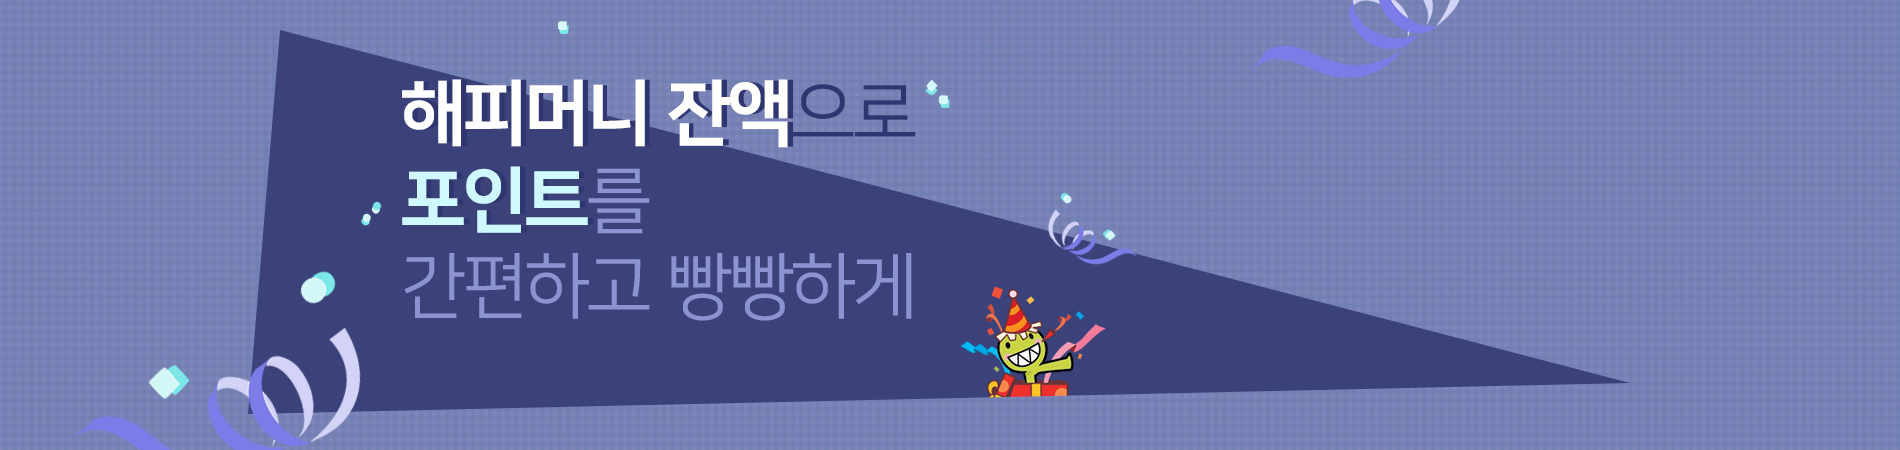
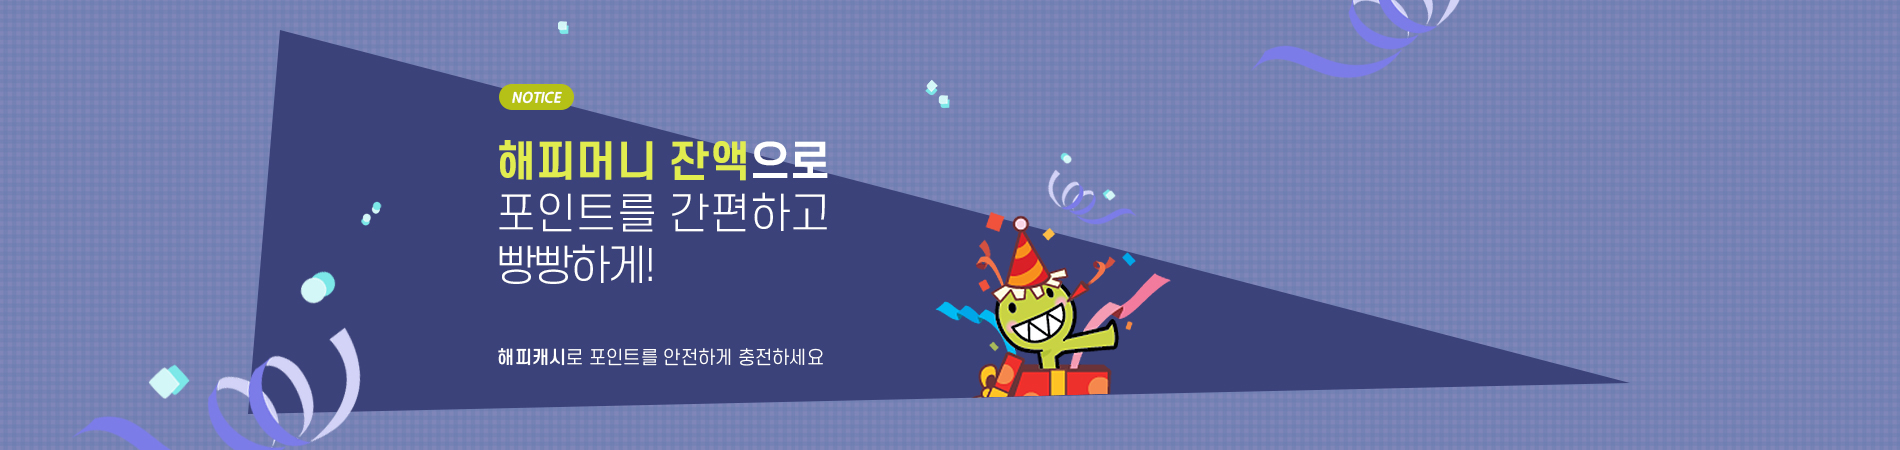
[포인트몰]메인 1차 완성

Changed region(s): [[0.1863, 0.1556, 0.6211, 0.9022], [0.2484, 0.7778, 0.4347, 0.8089]]

diff --git a/views/v2_point/main/index.html b/views/v2_point/main/index.html
@@ -101,14 +101,14 @@
                 var otc_sells = success.data.otc_sells;
                 var notices = success.data.notices;
                 
-                console.log(success);
+                // console.log(success);
 
-                setPrimeService(prime_services);
-                setGameSellList(game_sells);
-                setGameBuyList(game_buys);
+                // setPrimeService(prime_services);
+                // setGameSellList(game_sells);
+                // setGameBuyList(game_buys);
                 setEtcSellList(etc_sells);
-                setOtcBuyList(otc_buys);
-                setOtcSellList(otc_sells);
+                // setOtcBuyList(otc_buys);
+                // setOtcSellList(otc_sells);
                 setNoticeList(notices);
                 setCommunityMovie(movies);
                 // setCommunityBoard(boards);
@@ -293,9 +293,9 @@
                         money = price + '<span>'+cryptoCurrencyCode+'</span>';
                     }
                     
-                    if(i % 4 === 0) result += '<li class="row">'
+                    if(i % 4 === 0) result += '<li class="li_asset cf">'
                     
-                    result += '<div class="col-lg-3 col-md-6 col-xs-12">'
+                    result += '<div class="asset_once">'
                             +     '<div class="img_list_box">'
                             +        '<div class="photo_frame">'
                             +        '<em class="ico_trade state_possible step'+status.number+'">'+status.text+'</em>'
@@ -312,11 +312,12 @@
                             +        '</dl>'
                             +    '</div>'
                             + '</div>'
-                    if(i===data.length -1) {
-                        result += '<div class="col-md-3 col-sm-6 col-xs-12"><div class="img_list_box"><div class="view_more">'
-                                + '<a href="/etc-sells?category=etc&trade_type=sell"><em>+</em><span>VIEW<br>MORE</span></a>'
-                                + '</div></div></div>'
-                    }
+                    // VIEW MORE 버튼 빼버림
+                    // if(i===data.length -1) {
+                    //     result += '<div class="asset_once"><div class="img_list_box"><div class="view_more">'
+                    //             + '<a href="/etc-sells?category=etc&trade_type=sell"><em>+</em><span>VIEW<br>MORE</span></a>'
+                    //             + '</div></div></div>'
+                    // }
                     if(i % 4 === 3) result += '</li>'
                 }
             }
@@ -367,20 +368,20 @@
                     <div class="visual_img">
                         <a href="/howto/trade/vtr">
                             <div class="pc_img">
-                                <img src="/static/img/pointmall/point_visual03.jpg" alt="그랜드 오픈">
+                                <img src="/static/img/pointmall/point_visual04.jpg" alt="그랜드 오픈">
                             </div>
                             <div class="mob_img">
-                                <img src="/static/img/pointmall/m_point_visual03.jpg" alt="그랜드 오픈">
+                                <img src="/static/img/pointmall/m_point_visual04.jpg" alt="그랜드 오픈">
                             </div>
                         </a> 
                     </div>
                     <div class="visual_img">
                         <a href="/howto/happymoney_to_point">
                             <div class="pc_img">
-                                <img src="/static/img/pointmall/point_visual02.jpg" alt="해피포인트">
+                                <img src="/static/img/pointmall/point_visual02.jpg" alt="해피머니">
                             </div>
                             <div class="mob_img">
-                                <img src="/static/img/pointmall/m_point_visual02.jpg" alt="해피포인트몰">
+                                <img src="/static/img/pointmall/m_point_visual02.jpg" alt="해피머니">
                             </div>
                         </a> 
                     </div>                                                                     
@@ -392,7 +393,7 @@
                 </div>
             </section>
         </div>
-        <div class="container renewer_container">
+        <div class="renewer_container">
             <!-- <div class="w100p_banner row">
                 <div class="col-lg-12">
                     <a class="mob_hide" href="https://open.kakao.com/o/gNPGb7sb" target="_blank">
@@ -403,108 +404,77 @@
                     </a>
                 </div>
             </div> -->
-            <section>
-                <h1 class="tit_main_sec">자산거래</h1>
-                <div class="photo_list">
-                    <ul id="assetsTrade">
-                    </ul>
-                </div>
-            </section>
 
-            <!-- 게임 아이템 판매/구매 -->
-            <section class="secGame item_trade_sec col-lg-12">
-                <h1 class="tit_main_sec">게임아이템</h1>
-                <h2 class="item_sell_tit on">
-                    <button class="btnGame btn_show_list on">판매</button>
-                    <a class="detail_link" href="/sells?category=game&trade_type=sell"><img src="/static/img/main/ico_view.png" alt=""></a>
-                </h2>
-                <div class="item_sell item_table_wrap trade_list toggleTable">              
-                    <table class="main_list_table">
-                        <colgroup class="colgroup_main_gameitem">
-                            <col class="col4_1">
-                            <col class="col4_2">
-                            <col class="col4_3">
-                            <col class="col4_4">
-                        </colgroup>
-                        <thead>
-                            <tr class="active">
-                                <th>종류</th>
-                                <th>게임명>서버명</th>
-                                <th>제 목</th>
-                                <th>거래가격</th>
-                            </tr>
-                        </thead>
-                        <tbody id="sell_list">                               
-                        </tbody>
-                    </table>
-                </div>
-                <h2 class="item_buy_tit">
-                    <button class="btnGame btn_show_list">구매</button>
-                    <a class="detail_link" href="/buys?category=game&trade_type=buy"><img src="/static/img/main/ico_view.png" alt=""></a>
-                </h2>
-                <div class="item_buy item_table_wrap trade_list toggleTable">
-                    <table class="main_list_table">
-                        <colgroup class="colgroup_main_gameitem">
-                            <col class="col4_1">
-                            <col class="col4_2">
-                            <col class="col4_3">
-                            <col class="col4_4">
-                        </colgroup>                            
-                        <thead>
-                            <tr>
-                                <th>종류</th>
-                                <th>게임명>서버명</th>
-                                <th>제 목</th>
-                                <th>거래가격</th>
-                            </tr>
-                        </thead>
-                        <tbody id="buy_list">
-                        </tbody>
-                    </table>                           
-                </div>             
-            </section>
-            <!--// 게임 아이템 판매/구매 -->
-  
-            <!-- <section class="w100p_banner row">
-                <div class="col-lg-12">
-                    <a class="mob_hide" href="http://bitweb.co.kr/" target="_blank">
-                        <img src="/static/img/main/main_content_banner03.jpg" alt="Bit Web">
-                    </a>
-                    <a class="mob_show" href="http://bitweb.co.kr/" target="_blank">
-                        <img src="/static/img/mob/mob_main_banner03.jpg" alt="Bit Web">
-                    </a>
-                </div>
-            </section> -->
-
-            <div class="row">
-                <section class="media_sec col-lg-12">
-                    <h1 class="tit_main_sec">커뮤니티</h1>
-                    <div class="bd_area">
-                        <div class="media_img_wrap cf">
-                        </div>
+            <section class="section_asset">
+                <div class="main_inner_wrap">
+                    <h1 class=""><img src="/static/img/main/tit_asset.png" alt="ASSET"></h1>
+                    <div class="photo_list">
+                        <ul id="assetsTrade">
+                        </ul>
                     </div>
-                </section>
-            </div>
-           
-            <div class="main_3n1n_wrap">
-                <section class="notice_sec">
-                    <h1 class="">공지사항</h1>
-                    <ul id="notice_list" class="noti_list">
+                </div>
+            </section>
+            <section class="section_hashtag">
+                <div class="main_inner_wrap hashtag_category_wrap">
+                    <ul class="hashtag_category cf">
+                        <li class="hash_all"><a href="/etc-sells?category=etc&trade_type=sell"><span>전체</span></a></li>
+                        <li class="c1"><a href="/etc-sells?category=etc&trade_type=sell&category1=여성의류"><span>여성의류</span></a></li>
+                        <li class="c2"><a href="/etc-sells?category=etc&trade_type=sell&category1=남성의류"><span>남성의류</span></a></li>
+                        <li class="c3"><a href="/etc-sells?category=etc&trade_type=sell&category1=패션잡화"><span>패션잡화</span></a></li>
+                        <li class="c4"><a href="/etc-sells?category=etc&trade_type=sell&category1=뷰티/미용"><span>뷰티/미용</span></a></li>
+                        <li class="c5"><a href="/etc-sells?category=etc&trade_type=sell&category1=유아동/출산"><span>유아동/출산</span></a></li>
+                        <li class="c1"><a href="/etc-sells?category=etc&trade_type=sell&category1=스포츠/레저"><span>스포츠/레저</span></a></li>
+                        <li class="c2"><a href="/etc-sells?category=etc&trade_type=sell&category1=디지털/가전"><span>디지털/가전</span></a></li>
+                        <li class="c3"><a href="/etc-sells?category=etc&trade_type=sell&category1=생활/가구"><span>생활/가구</span></a></li>
+                        <li class="c4"><a href="/etc-sells?category=etc&trade_type=sell&category1=도서/티켓"><span>도서/티켓</span></a></li>
+                        <li class="c5"><a href="/etc-sells?category=etc&trade_type=sell&category1=취미/애완"><span>취미/애완</span></a></li>
+                        <li class="c1"><a href="/etc-sells?category=etc&trade_type=sell&category1=문구/키덜트"><span>문구/키덜트</span></a></li>
+                        <li class="c2"><a href="/etc-sells?category=etc&trade_type=sell&category1=차량/용품"><span>차량/용품</span></a></li>
+                        <li class="c3"><a href="/etc-sells?category=etc&trade_type=sell&category1=기타"><span>기타</span></a></li>
+                        <li class="li_otc"><a href="/otc-sells"><span>OTC</span></a></li>
+                        <li class="li_game"><a href="/sells"><span>게임아이템</span></a></li>
                     </ul>
-                </section>
-                <section class="guide_sec">
-                    <a href="/howto/trade/vtr">
-                        <h1>포인트몰<br>이용 가이드</h1>
-                        <div class="ico_round ico_guide01"></div>
-                    </a>
-                </section>
-                <section class="guide_sec">
-                    <a href="/howto/trade/buynow">
-                        <h1>포인트몰<br>바로구매 가이드</h1>
-                        <div class="ico_round ico_guide02"></div>
-                    </a>
-                </section>
-            </div>        
+                </div>
+            </section>
+
+            <!-- 커뮤니티 베스트 -->
+            <section class="section_community">
+                <div class="main_inner_wrap">
+                    <h1 class=""><img src="/static/img/en/title_community_en.png" alt="Community"></h1>
+                    <div class="media_img_wrap cf">
+                    </div>
+                </div>
+            </section>
+
+            <div class="w100p_banner">
+                <a class="mob_hide" href="http://bitweb.co.kr" target="_blank">
+                    <img src="/static/img/en/en_main_content_banner03.jpg" alt="bitweb PC">
+                </a>
+                <a class="mob_show" href="http://bitweb.co.kr" target="_blank">
+                    <img src="/static/img/en/en_mob_main_banner03.jpg" alt="bitweb mobile">
+                </a>
+            </div>
+                
+            <div class="noti_hot_section_wrap">
+                <div class="main_inner_wrap dfb">
+                    <section class="section_notice">
+                        <h1>NOTICE</h1>
+                        <div class="line_box">
+                            <ul id="notice_list" class="noti_list">
+                            </ul>
+                        </div>
+                    </section>
+                    <section class="section_hotmenu">
+                        <h1>HOT MENU</h1>
+                        <a href="/supports/event">
+                            <img src="/static/img/main/img_btn_event.jpg" alt="event">
+                        </a>
+                        <a href="/howto/trade/vtr">
+                            <img src="/static/img/main/img_btn_trading.jpg" alt="safty trade">
+                        </a>
+                    </section>
+                </div>
+            </div>            
         </div>
         <!--// bootstrap container -->
     </div>

diff --git a/public/static/css/common.css b/public/static/css/common.css
@@ -109,7 +109,8 @@ select{-webkit-appearance: none; -webkit-border-radius: 0px; -moz-appearance: no
 
 .header .sch_sec{position: relative; height: 105px;}
 .header .sch_sec .h_logo{float: left; margin-top: 30px; width: 210px; text-align: center;}
-.header .sch_sec .h_logo img{width: 142px;}
+.header .sch_sec .point_logo{text-align: left;}
+.header .sch_sec .h_logo img{height: 40px;}
 .header .sch_sec .search_bar{float: left; margin-top: 26px; width: calc(100% - 360px); position: relative; display: none; }
 .header .sch_sec .search_bar .ipt_search_bar{float: left; padding-left: 10px; width: calc(100% - 50px); height: 50px; border: 3px solid #000039;}
 .header .sch_sec .search_bar .btn_search{float: left; width: 50px; height: 50px; text-indent: -99999px; background: #000039 url("/static/img/main/ico_search.png") 50% 50% no-repeat; background-size: 16.5px 15px; border:none;}
@@ -159,12 +160,12 @@ select{-webkit-appearance: none; -webkit-border-radius: 0px; -moz-appearance: no
 .header .nav > .r_menu > li .floating_info_box .mdl_area{padding: 10px 0;}
 .header .nav > .r_menu > li .floating_info_box .mdl_area em{font-size: 16px;}
 .header .nav > .r_menu > li .floating_info_box .mdl_area p{padding: 6px 0;}
+.header .nav > .r_menu > li .floating_info_box .mdl_area a{border: 2px solid #07223d; border-radius: 20px; color: #07223d;}
 .header .nav > .r_menu > li .floating_info_box .mdl_area p a{color: #0a73b8;font-size: 18px;font-weight: bold;}
 .header .nav > .r_menu > li .floating_info_box .mdl_area p a span{font-size: 14px;}
 .header .nav > .r_menu > li .floating_info_box .mdl_area button{width: 48%;}
 .header .nav > .r_menu > li .floating_info_box .btm_area{padding: 5px 0; border-top: 2px solid #1e2560;}
 .header .nav > .r_menu > li .floating_info_box .btm_area button{width: 48%;}
-.header .nav > .r_menu > li .floating_info_box .mdl_area a{border: 2px solid #07223d; border-radius: 20px; color: #07223d;}
 .header .nav > .r_menu > li .floating_info_box .btm_area .available_coin{}
 .header .nav > .r_menu > li .floating_info_box .btm_area dt{padding: 2px 0; color: #1e2560; text-align: center;}
 .header .nav > .r_menu > li .floating_info_box .btm_area dd{float: left; width: 25%; height: 30px; line-height: 28px; text-align: center; border-top: 1px solid #dbdbdb; border-right: 1px solid #dbdbdb; border-bottom: 1px solid #dbdbdb; box-sizing: border-box;}
@@ -180,7 +181,7 @@ select{-webkit-appearance: none; -webkit-border-radius: 0px; -moz-appearance: no
 .header .nav > .r_menu > li .beforeLoginBox{}
 .header .nav > .r_menu > li .beforeLoginBox .mdl_area p{font-size: 13px;}
 /* 로그인 후 */
-.header .nav > .r_menu > li .afterLoginBox{}
+.header .nav > .r_menu > li .afterLoginBox .mdl_area a{border: none;}
 
 /*** header: Mobile ***/
 .mob_header{display: none; border-bottom: 1px solid #c1c1c1;}
@@ -213,7 +214,7 @@ select{-webkit-appearance: none; -webkit-border-radius: 0px; -moz-appearance: no
 .mob_header .mob_sch_sec li:nth-child(1) img{width: 35.5px;}
 .mob_header .mob_sch_sec li:nth-child(2){width: calc(100% - 77px);}
 .mob_header .mob_sch_sec li:nth-child(2) h1{text-align: center;}
-.mob_header .mob_sch_sec li:nth-child(2) h1 img{width: 112px;}
+.mob_header .mob_sch_sec li:nth-child(2) h1 img{height: 31px;}
 .mob_header .mob_sch_sec li:nth-child(3){}
 .mob_header .mob_sch_sec .search_bar{}
 .mob_header .mob_sch_sec .search_bar .ipt_search_bar{float: left; width: calc(100% - 40px); height: 36px; border: 2px solid #000039;}

diff --git a/views/v2_point/include/header.html b/views/v2_point/include/header.html
@@ -226,7 +226,7 @@
                 </ul>
             </div>
             <section class="sch_sec cf">
-                <h1 class="h_logo"><a href="/main"><img src="/static/img/h_logo.png" alt="MACH"></a></h1>
+                <h1 class="h_logo point_logo"><a href="/main"><img src="/static/img/pointmall/pointmall_logo.png" alt="MACH"></a></h1>
                 
                 <% include modules/search_guide.html %>
                 
@@ -235,7 +235,7 @@
                 </div>
             </section>
             <nav class="nav cf">
-                <ul class="l_menu nav_menu cf bgc1">
+                <ul class="l_menu nav_menu cf">
                     <li>
                         <button class="hasDepth2">판매등록</button>
                         <ul class="depth2 cf">

diff --git a/views/v2_point/include/m_header.html b/views/v2_point/include/m_header.html
@@ -140,7 +140,7 @@
         <section class="mob_sch_sec">
             <ul class="mob_top_menu cf">
                 <li><a href="javascript:loginChecker()"><img src="/static/img/main/chatbot_mac.png" alt="MACH bot"></a></li>
-                <li><h1 class="h_logo"><a href="/main"><img src="/static/img/h_logo.png" alt="MACH"></a></h1></li>
+                <li><h1 class="h_logo"><a href="/main"><img src="/static/img/pointmall/pointmall_logo.png" alt="MACH"></a></h1></li>
                 <li>
                     <button id="btnHamburger" class="menu-trigger">
                         <span></span>
